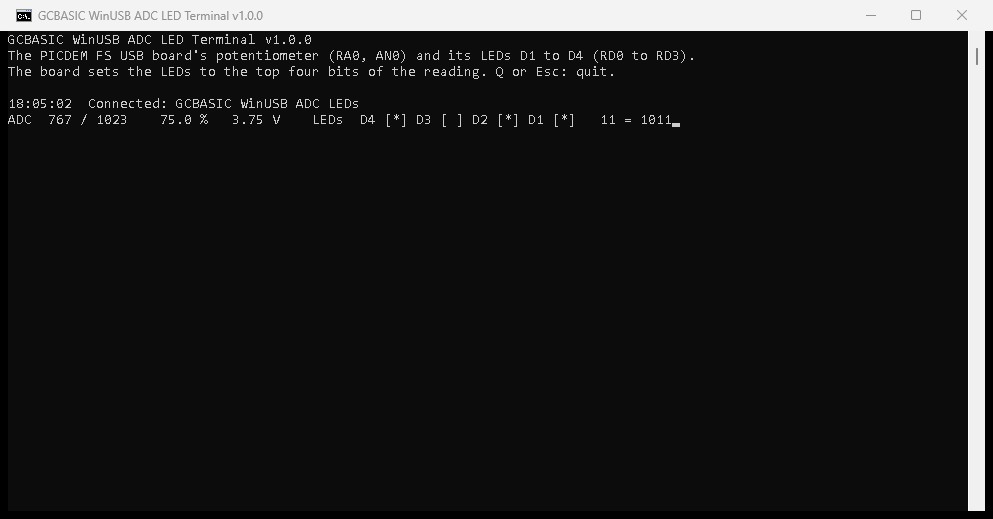
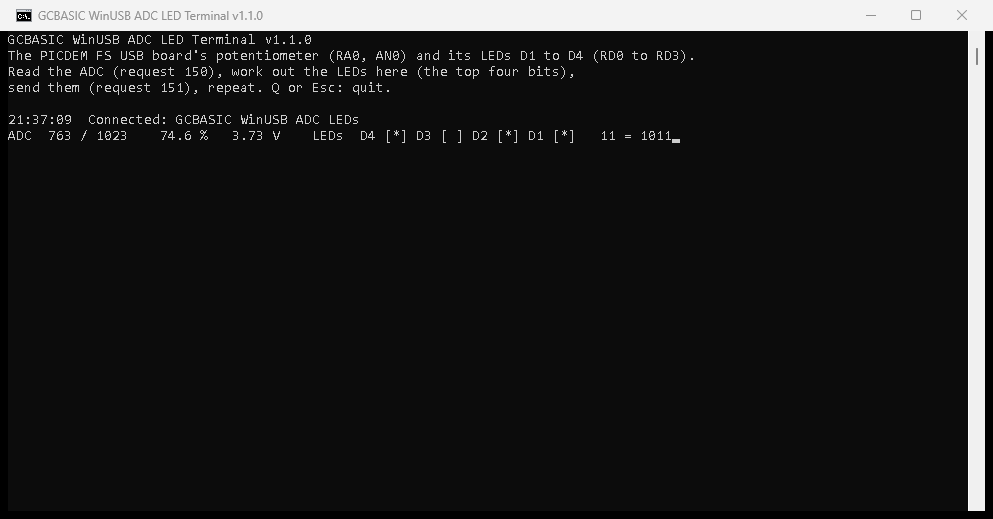
Move ADC LED control to the PC terminal
Split the USB protocol into request 150 for ADC readings and request 151 for LED updates. The PC terminal now calculates and sends the LED state, and the firmware updates its LEDs on request.

diff --git a/USB_Solutions/GreatCowBASIC_Solutions/WINUSB_Solutions/ADC_LED_Terminal/README.md b/USB_Solutions/GreatCowBASIC_Solutions/WINUSB_Solutions/ADC_LED_Terminal/README.md
@@ -1,30 +1,51 @@
-# ADC LED Terminal: the potentiometer on the LEDs
+# ADC LED Terminal: a USB comms demonstration
 
-The PICDEM FS USB board (PIC18F4550) shows its potentiometer on its four LEDs, and a terminal on the PC shows the
-reading and the LEDs over USB. WinUSB: no driver to install.
+The PC reads the PICDEM FS USB board's potentiometer over USB, works out the LEDs, and sends them back to the board
+(PIC18F4550). WinUSB: no driver to install.
+
+## The loop
+
+The PC drives every step; the board only answers.
+
+```
+     PC (ADC_LED_Terminal.exe)                        Board (WINUSB_18F4550_ADC_LEDs.gcb)
+
+  1. Request 150 (read)        ------------------->   reads the potentiometer (ReadAD10, AN0)
+                               <-------------------   replies: the reading, 2 bytes, low byte first
+  2. LEDs = reading / 64   (on the PC: 0 to 15)
+  3. Request 151 (write),
+     wValue = LEDs             ------------------->   sets D1 to D4 (RD0 to RD3)
+  4. Show the line, wait 200 ms, back to 1
+```
+
+The board makes no decisions: with no PC, or the terminal closed, the LEDs stay as the PC last set them (all off after
+a reset). Change the calculation in step 2 (`Dim Leds = AdcValue \ 64` in `Program.vb`) and the board shows the
+change with no new firmware.
 
 ## Using it
 
 1. Program the board with `WINUSB_18F4550_ADC_LEDs.gcb` (see [Compile and program](#compile-and-program)).
-2. Turn the potentiometer: the LEDs D1 to D4 count with it, with or without a PC.
-3. Plug the board into the PC and start `ADC_LED_Terminal.exe`. It waits for the board, then shows one line,
-   updated five times a second:
+2. Plug the board into the PC and start `ADC_LED_Terminal.exe`. It waits for the board, then runs the loop five times a
+   second and shows one line, updated in place:
 
 ```
-GCBASIC WinUSB ADC LED Terminal v1.0.0
+GCBASIC WinUSB ADC LED Terminal v1.1.0
 The PICDEM FS USB board's potentiometer (RA0, AN0) and its LEDs D1 to D4 (RD0 to RD3).
-The board sets the LEDs to the top four bits of the reading. Q or Esc: quit.
+Read the ADC (request 150), work out the LEDs here (the top four bits),
+send them (request 151), repeat. Q or Esc: quit.
 
-18:04:14  Connected: GCBASIC WinUSB ADC LEDs
+21:33:37  Connected: GCBASIC WinUSB ADC LEDs
 ADC  765 / 1023    74.8 %   3.74 V    LEDs  D4 [*] D3 [ ] D2 [*] D1 [*]   11 = 1011
 ```
 
+3. Turn the potentiometer: the reading changes, and the LEDs on the board and on the line count with it.
+
 | On the line | What it is |
 |---|---|
-| `ADC  765 / 1023` | The reading, 0 to 1023 (10 bits) |
-| `74.8 %` | The reading as a part of the range |
-| `3.74 V` | The reading in volts, for a 5 V supply |
-| `D4 [*] D3 [ ] D2 [*] D1 [*]` | The LEDs: `[*]` on, `[ ]` off, as the board reports them |
+| `ADC  765 / 1023` | The reading from the board, 0 to 1023 (10 bits) |
+| `74.8 %` | The reading as a part of the range, worked out on the PC |
+| `3.74 V` | The reading in volts, for a 5 V supply, worked out on the PC |
+| `D4 [*] D3 [ ] D2 [*] D1 [*]` | The LEDs the PC sent: `[*]` on, `[ ]` off |
 | `11 = 1011` | The LEDs as a number, 0 to 15, and in binary (D4 to D1) |
 
 - Unplug the board: the terminal says "The board was removed." and waits; plug it in again and it carries on.
@@ -32,7 +53,7 @@ ADC  765 / 1023    74.8 %   3.74 V    LEDs  D4 [*] D3 [ ] D2 [*] D1 [*]   11 = 1
 - With its output to a file or a pipe (`ADC_LED_Terminal.exe > log.txt`), the terminal writes a timed line for each
   new reading instead of one line in place.
 
-![The terminal connected to the board: ADC 767 / 1023, 75.0 %, 3.75 V, LEDs D4, D2 and D1 on, 11 = 1011](ADC_LED_Terminal.png)
+![The terminal v1.1.0 connected to the board: ADC 763 / 1023, 74.6 %, 3.73 V, LEDs D4, D2 and D1 on, 11 = 1011](ADC_LED_Terminal.png)
 
 ## The board
 
@@ -41,10 +62,9 @@ ADC  765 / 1023    74.8 %   3.74 V    LEDs  D4 [*] D3 [ ] D2 [*] D1 [*]   11 = 1
 | Board | PICDEM FS USB Demo Board, 2004, PIC18F4550, 20 MHz crystal |
 | Potentiometer | RV1 on RA0 (AN0), read with `ReadAD10`: 0 to 1023 |
 | LEDs | D1, D2, D3, D4 on RD0, RD1, RD2, RD3 |
-| The LEDs show | the reading / 64: its top four bits, 0 to 15, D1 the lowest bit |
 
-The board does the work: its main loop reads the potentiometer about every 20 ms and sets the LEDs. The PC only
-reads. To show a bar instead (0 to 4 LEDs lit), change the line `LEDValue = ADCValue / 64` in the main loop.
+The firmware's main loop is empty: both requests are answered in the USB interrupt (`SetupHandler_CallBack`, called by
+GCBASIC's `usb.h`). Request 150 reads the potentiometer when the PC asks, so the reading is always fresh.
 
 ## USB
 
@@ -53,12 +73,14 @@ reads. To show a bar instead (0 to 4 LEDs lit), change the line `LEDValue = ADCV
 | USB ID | 04D8:0052, bcdDevice 0x0200 |
 | Product name | "GCBASIC WinUSB ADC LEDs" |
 | WinUSB device interface GUID | `{C1060DC6-E7CA-4011-AA82-B63E9A555A20}` |
-| Request 150 | Three bytes: the reading (a Word, low byte first), then the LEDs (0 to 15) |
-| Request 255 | The keep-alive: answers 255 |
+| Request 150, read | bmRequestType 0xC2 (194). Replies with two bytes: the reading, a Word, low byte first |
+| Request 151, write | bmRequestType 0x42 (66), no data. The LEDs, 0 to 15 (D1 the lowest bit), in wValue's low byte |
+| Request 255, read | The keep-alive: answers 255 |
+
+The firmware reads wValue's low byte from `USBTempBuffer(2)`, where `usb.h` keeps the setup packet.
 
 The bcdDevice and the GUID are this solution's own: the WinUSB Demo Program (bcdDevice 0x0100) does not open this
-board, and the terminal does not open the demonstration programs. The firmware copies the reading and the LEDs with
-interrupts off, so the USB interrupt never sends half of one reading and half of the next.
+board, and the terminal does not open the demonstration programs.
 
 ## Compile and program
 
@@ -70,19 +92,18 @@ GCBASIC.EXE "<path>\WINUSB_18F4550_ADC_LEDs.gcb" /NP /S:use.ini /F:N /P: /DO    
 GCBASIC.EXE "<path>\WINUSB_18F4550_ADC_LEDs.gcb" /NP /S:use.ini /FO /DO         (program the HEX)
 ```
 
-1,465 words of program memory and 660 bytes of RAM (GCBASIC build 1660).
+1,380 words of program memory and 656 bytes of RAM (GCBASIC build 1660).
 
 ## Files
 
 | File | What it is |
 |---|---|
-| `WINUSB_18F4550_ADC_LEDs.gcb` | The firmware |
-| `ADC_LED_Terminal.exe`, `LibUsbDotNet.dll` | The terminal, ready to run (.NET Framework 4) |
+| `WINUSB_18F4550_ADC_LEDs.gcb` | The firmware, version 1.1 |
+| `ADC_LED_Terminal.exe`, `LibUsbDotNet.dll` | The terminal, version 1.1.0, ready to run (.NET Framework 4) |
 | `ADC_LED_Terminal.png` | The terminal's window, as above |
 | `PC_Application\` | The terminal's source: VB.NET, `ADC_LED_Terminal.sln`, built with Visual Studio 2017. It uses `..\..\LibUsbDotNet.dll`; build from a local copy (MSBuild refuses a network drive's files). |
 
 ## Tested
 
-2026-10-25, on the PICDEM FS USB board with the PIC18F4550: programmed with the PICKitPlus, enumerates as
-04D8:0052 REV_0200 with WinUSB, the terminal connects and reads 763 to 767 with the LEDs at 11 (1011): the reading /
-64, as the board shows it.
+2026-10-25, on the PICDEM FS USB board with the PIC18F4550, programmed with the PICKitPlus: the terminal reads
+763 to 766 (request 150), sends LEDs 11 (1011) (request 151) and both transfers succeed, five times a second.
